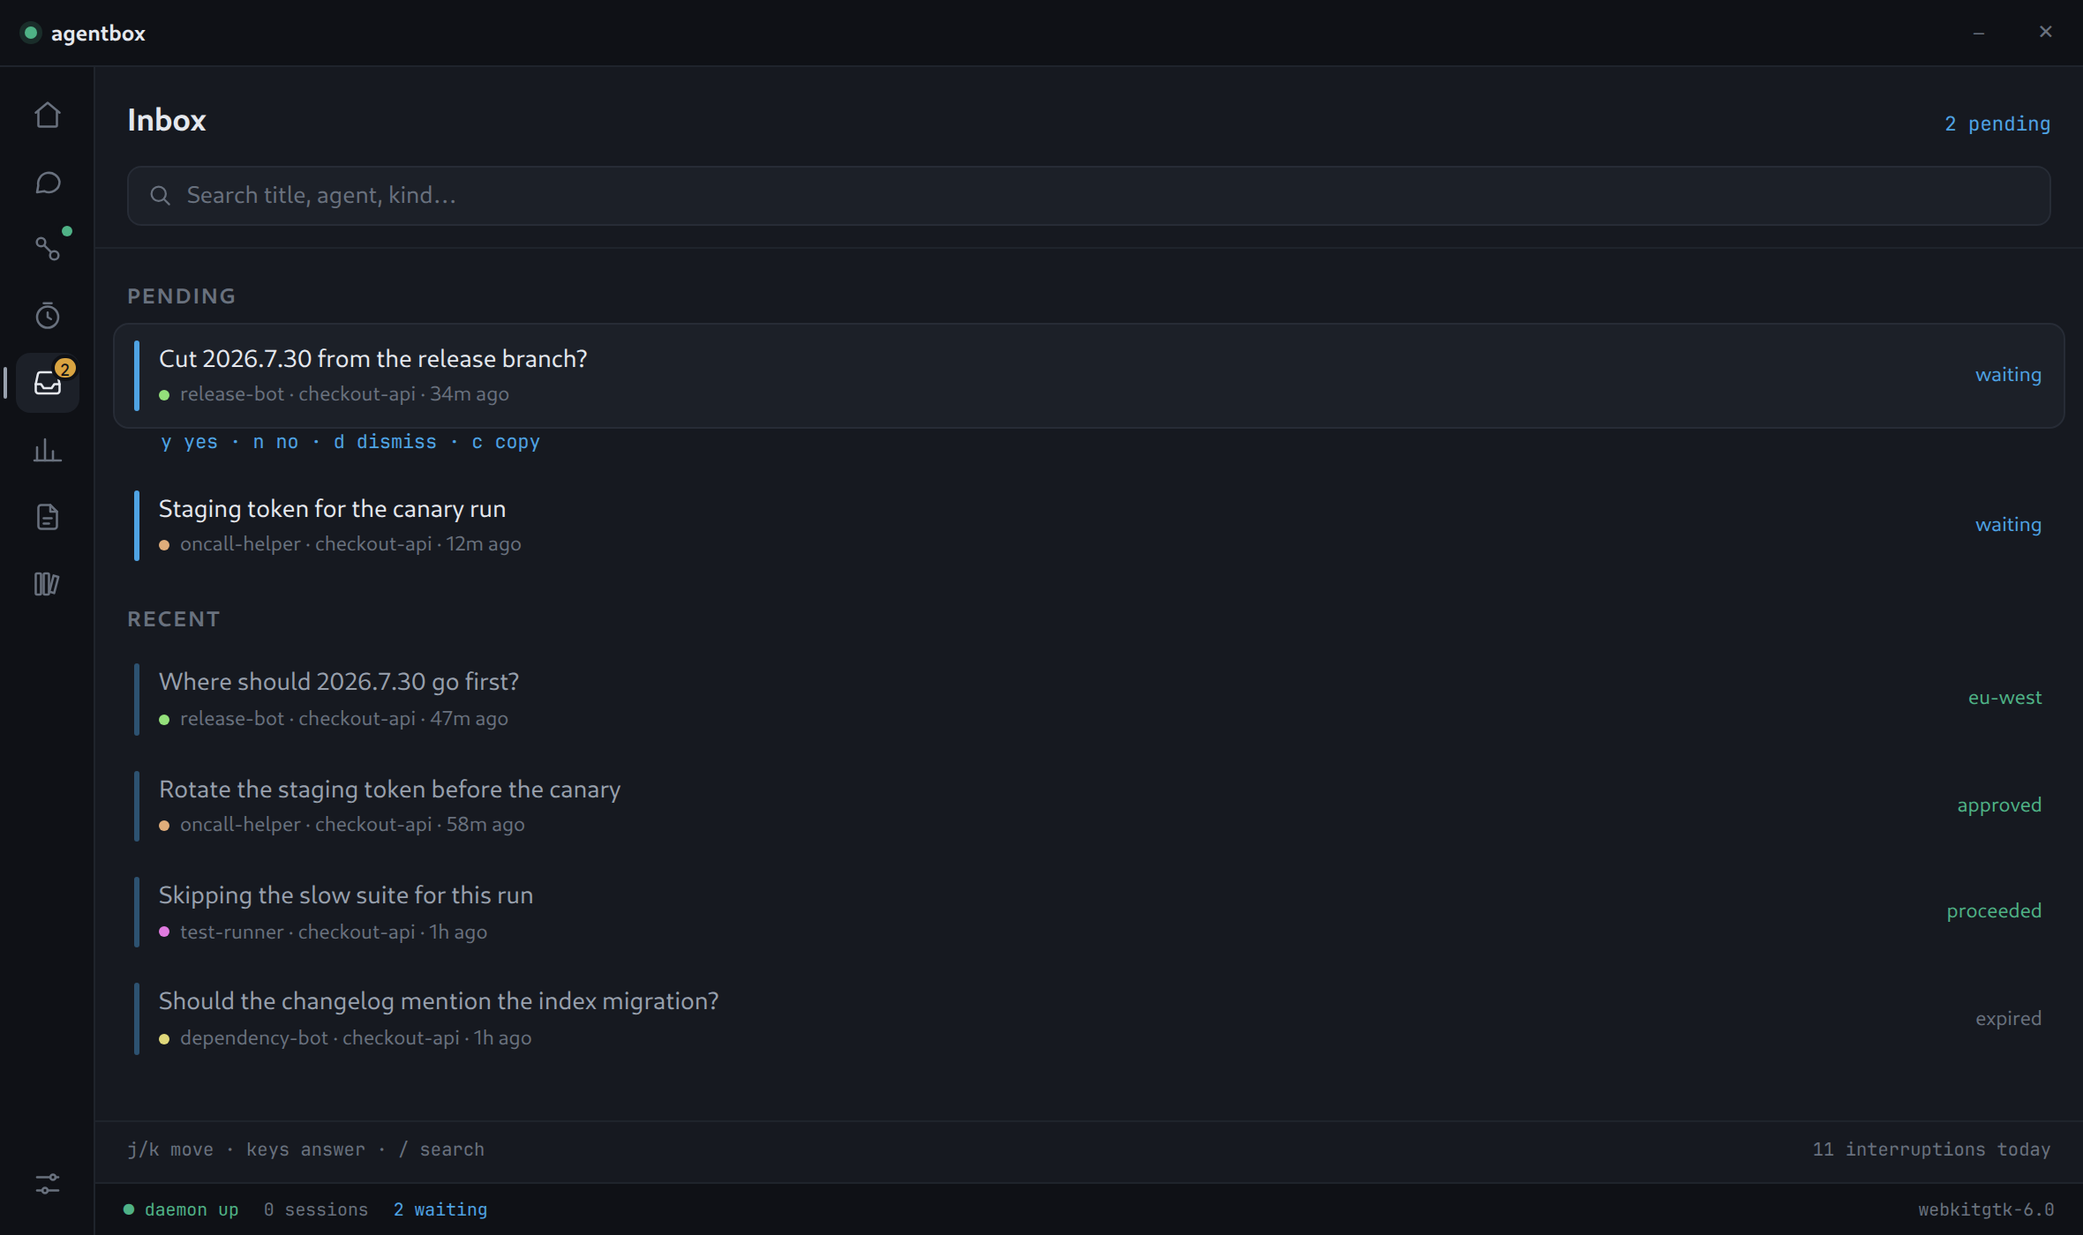
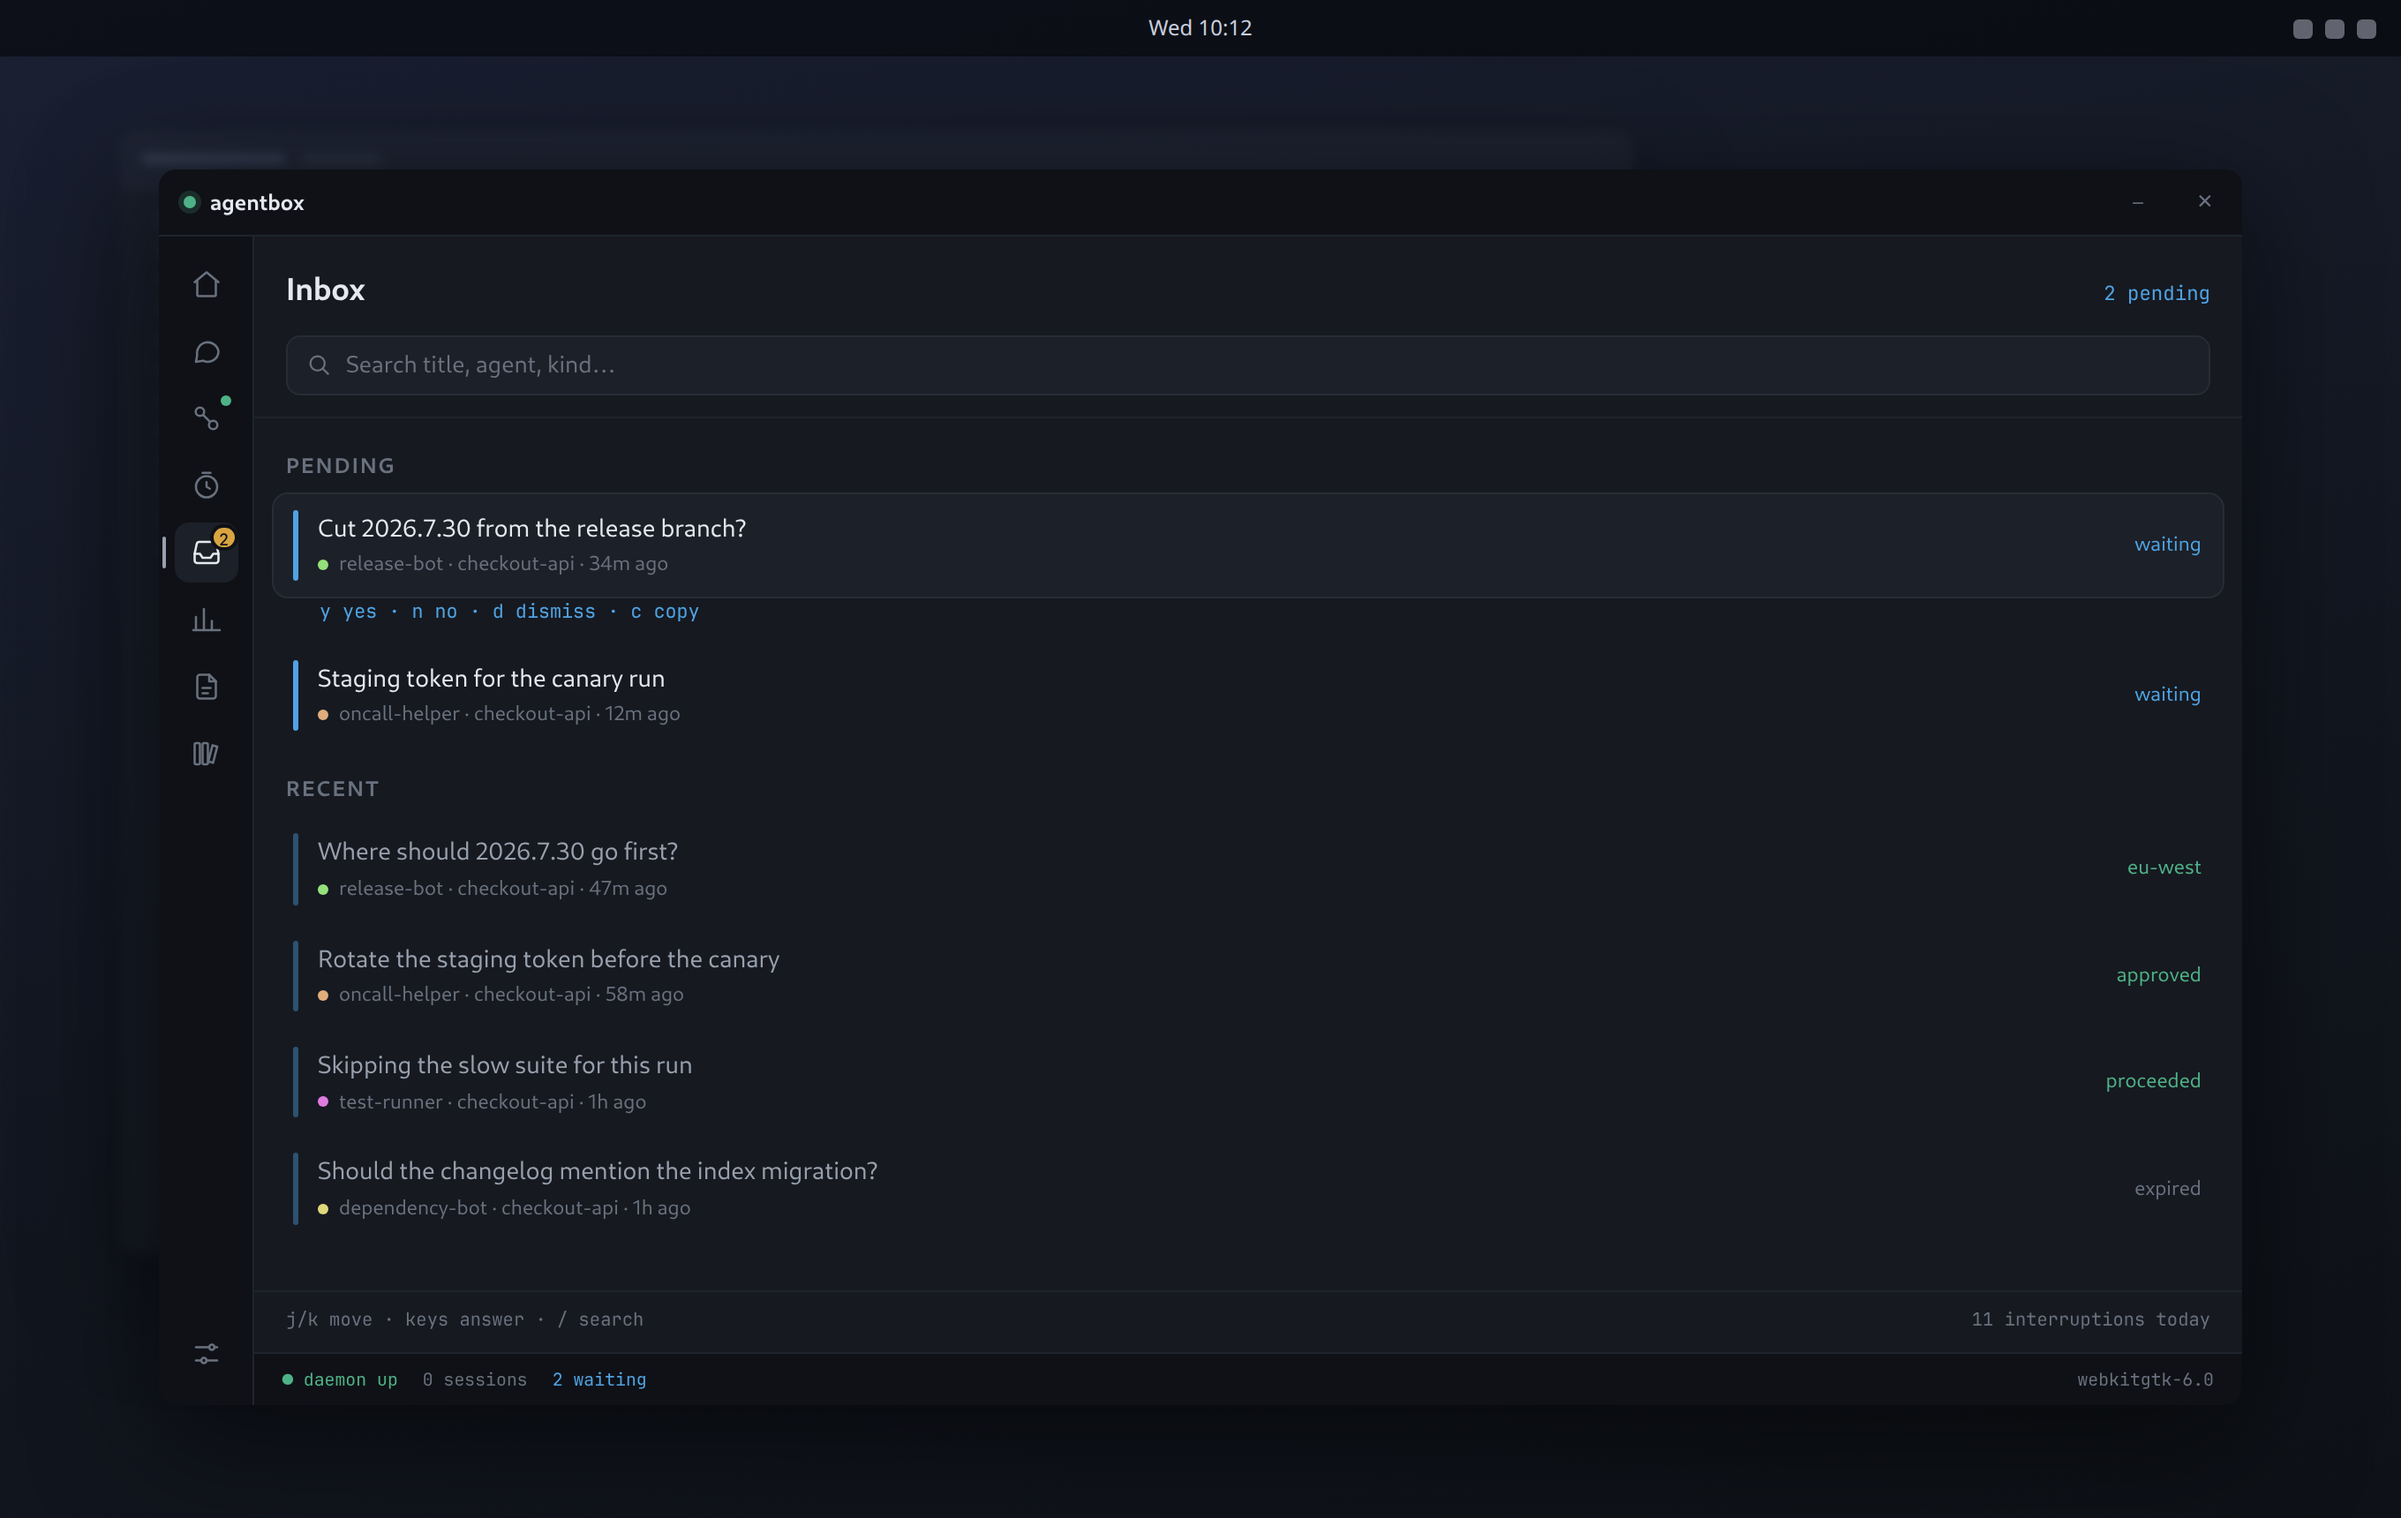
feat(wiki): every frame sits on a desktop, and the README uses them
The frames cropped flush to their window read as a flat rectangle beside the
ones that had desktop context, which was the whole difference between looking
like a product and looking like a screenshot. They all get the same desktop now:
wallpaper, somebody's work out of focus behind, the compositor's shadow, and the
corner rounding a mapped window gets from Mutter.

For the two card frames that also fixes a real omission. A card and a toast are
transparent frameless windows sized to their own content, so the CSS shadow they
carry is clipped by the window edge - what puts one on screen is the desktop
underneath, and a frame with no desktop in it had nowhere for the shadow to
fall.

The README was still pointing at docs/img, which is the set taken before the
rename: window title bars in it say qq, and the rail has grown since. It now
uses the drawn frames, and the six stale files are gone. One new frame came with
it, the diff review card, because the README had one and the wiki never did.

diff --git a/frontend/draw/frames.js b/frontend/draw/frames.js
@@ -325,7 +325,11 @@ export const FRAMES = {
     surface: "card",
     width: 470,
     height: "fit",
-    ground: 24,
+    // On the desktop rather than on a rectangle of ground. A card is a
+    // TRANSPARENT frameless window (webui.go), so what puts a shadow under it on
+    // a real screen is the desktop, and a frame cropped flush to the card has
+    // neither the shadow nor anything for it to fall on.
+    desk: { width: 860, height: 560, place: "centre" },
     // Keyed by the Go method name, which is what bridge.js builds its FQN from.
     // An empty theme is deliberate and is the whole of FR99's honesty rule in one
     // field: app.css's own defaults then decide every colour, so the frame wears
@@ -383,8 +387,7 @@ export const FRAMES = {
     // window height a human could drag to, not a crop that hides anything: the
     // footer strip is still pinned under the last row, where it lives.
     height: 720,
-    // "Crop to the window ... exclude the desktop behind it", so no ground.
-    ground: 0,
+    desk: { width: 1360, height: 880, place: "centre" },
     calls: {
       Theme: {},
       Ready: "",
@@ -411,7 +414,7 @@ export const FRAMES = {
     query: "tab=inbox",
     width: 1180,
     height: 700,
-    ground: 0,
+    desk: { width: 1360, height: 860, place: "centre" },
     calls: {
       Theme: {},
       Ready: "",
@@ -525,10 +528,10 @@ export const FRAMES = {
     // Shorter than the 780 Go opens, and a judgement like s2's: the stage flexes,
     // so a taller window is not more artifact, it is more empty stage under one.
     height: 470,
-    ground: 0,
     // The one frame that needs telling when it is done. The stage's iframe is in
     // the DOM long before the program inside it has mounted, so "the page has
     // painted" is not the question - a frame with a box is.
+    desk: { width: 1120, height: 640, place: "centre" },
     ready: ".k-artifact-frame",
     calls: {
       // artifactsEnabled is the trust switch, and it rides the theme. The
@@ -557,7 +560,7 @@ export const FRAMES = {
     surface: "viewer",
     width: 900,
     height: 780, // window.viewer_height
-    ground: 0,
+    desk: { width: 1120, height: 940, place: "centre" },
     calls: {
       Theme: {},
       Ready: "",
@@ -591,6 +594,53 @@ export const FRAMES = {
     events: { "agentbox:sessions": sessions() },
   },
 
+  // S14. The diff review card. README.md.
+  //
+  // The one kind that is read before it is answered, so it renders the diff
+  // rather than dumping it, and the keys are its own: a approves, r asks for
+  // changes, and the reply box is the comment that travels back with either.
+  // The change is the one the console frame is arguing about, so the two frames
+  // are the same afternoon.
+  s14: {
+    out: "review.png",
+    surface: "card",
+    width: 470,
+    height: "fit",
+    desk: { width: 900, height: 700, place: "centre" },
+    calls: { Theme: {}, Ready: "" },
+    events: {
+      "agentbox:view": card(
+        {
+          id: "itm-diff",
+          kind: "diff",
+          title: "Swap the router entry before draining",
+          body: "Four lines, no behaviour change on the happy path.",
+          identity: { agent: "release-bot", project: "checkout-api" },
+          // Kept narrow on purpose. The card is 470px and scrolls a long line
+          // rather than wrapping it, which is right on a desktop and reads as a
+          // clipped picture on a page.
+          diff: `--- a/internal/rollout/withdraw.go
++++ b/internal/rollout/withdraw.go
+@@ -18,8 +18,9 @@ func (r *Rollout) withdraw(
+-\tif err := r.drain(ctx, build); err != nil {
++\t// Swap first, or the drain feeds the
++\t// build being withdrawn.
++\tif err := r.point(ctx, r.previous); err != nil {
+ \t\treturn err
+ \t}
+-\treturn r.point(ctx, r.previous)
++\treturn r.drain(ctx, build)
+ }
+`,
+        },
+        {
+          bodyHtml: "<p>Four lines, no behaviour change on the happy path.</p>",
+          expiresAtMs: NOW + 271_000,
+        },
+      ),
+    },
+  },
+
   // S13. The secret card. is-it-safe.md, where the page has been carrying a
   // SHOT: placeholder since the wiki was written.
   //
@@ -603,7 +653,7 @@ export const FRAMES = {
     surface: "card",
     width: 470,
     height: "fit",
-    ground: 24,
+    desk: { width: 860, height: 570, place: "centre" },
     calls: { Theme: {}, Ready: "" },
     events: {
       "agentbox:view": card(

diff --git a/frontend/draw/desk.html b/frontend/draw/desk.html
@@ -220,6 +220,19 @@
         left: 50%;
         transform: translateX(-50%);
       }
+      /* An ordinary window, where the WM would put one it just opened. Every
+         frame sits on this desktop rather than on a flat rectangle of ground:
+         a window with somewhere to cast a shadow reads as a window, and a black
+         band around a screenshot reads as a screenshot. */
+      html[data-place="centre"] #surface {
+        top: calc(50% + 16px);
+        left: 50%;
+        transform: translate(-50%, -50%);
+        /* Mutter rounds the corners of a mapped window; the app's own surface is
+           square because it never has to draw them. Same argument as the shadow:
+           this is the compositor's, not the product's. */
+        border-radius: 10px;
+      }
       html[data-place="corner"] #surface {
         right: 28px;
         bottom: 52px;

diff --git a/README.md b/README.md
@@ -52,7 +52,7 @@ The design has one number in mind: how long it takes you to answer.
 
 ## A question, answered in two seconds
 
-![a choice card from release-bot](docs/img/card.png)
+![a choice card from release-bot asking which region release 2026.7.30 should go to first, with three numbered options and a countdown](docs/wiki/img/card.png)
 
 Every option has a number, so the whole exchange is one keystroke.\
 Esc defers the card to the inbox instead of answering it.\
@@ -103,7 +103,7 @@ agentbox notify --level success --title "release 2026.7.30 is live" --speak "The
 
 ## A patch, approved before it lands
 
-![a diff review card](docs/img/review.png)
+![a diff review card: the patch itself in the card, additions and removals coloured, a note box under it, and Request changes beside Approve](docs/wiki/img/review.png)
 
 `request_review` puts the patch itself in front of you: coloured, scrollable,
 with Approve and Request changes.\
@@ -111,7 +111,7 @@ A note typed into the card comes back to the agent as the review comment.
 
 ## A long job, without a notification per step
 
-![a live progress window](docs/img/progress.png)
+![the progress window in the bottom-right corner of the screen, three thin bars with no answer zone and no countdown](docs/wiki/img/progress.png)
 
 `report_progress` is a live bar in its own small window, deliberately outside
 the card queue.\
@@ -121,7 +121,7 @@ When the job ends, one toast says how it went.
 
 ## Documents, not scrollback
 
-![the reading window](docs/img/viewer.png)
+![the reading window: a table, a flowchart drawn as a diagram, and highlighted code, all on one fixed reading measure](docs/wiki/img/viewer.png)
 
 `show_document` renders markdown properly: headings, tables, highlighted
 code, GitHub-style alerts, mermaid diagrams, charts from a fenced block of
@@ -133,7 +133,7 @@ That makes it a live preview of whatever an agent is writing.
 
 ## An interface the agent wrote
 
-![an artifact, running](docs/img/artifact.png)
+![an artifact running in its own window: a canary console with a slider at 50% of live traffic and two buttons](docs/wiki/img/artifact.png)
 
 Some answers are a number, a range or a shape, and nine numbered options
 cannot carry them.\
@@ -146,7 +146,7 @@ the only way out.
 
 ## An hour away, and nothing lost
 
-![the app window, open on the inbox](docs/img/app.png)
+![the app window open on the inbox: two pending questions on top with their answer keys, and under them the hour that resolved itself](docs/wiki/img/inbox.png)
 
 Whatever arrived while you were gone is in the inbox: pending questions
 first, answerable right there with the same keys a card takes, then the
